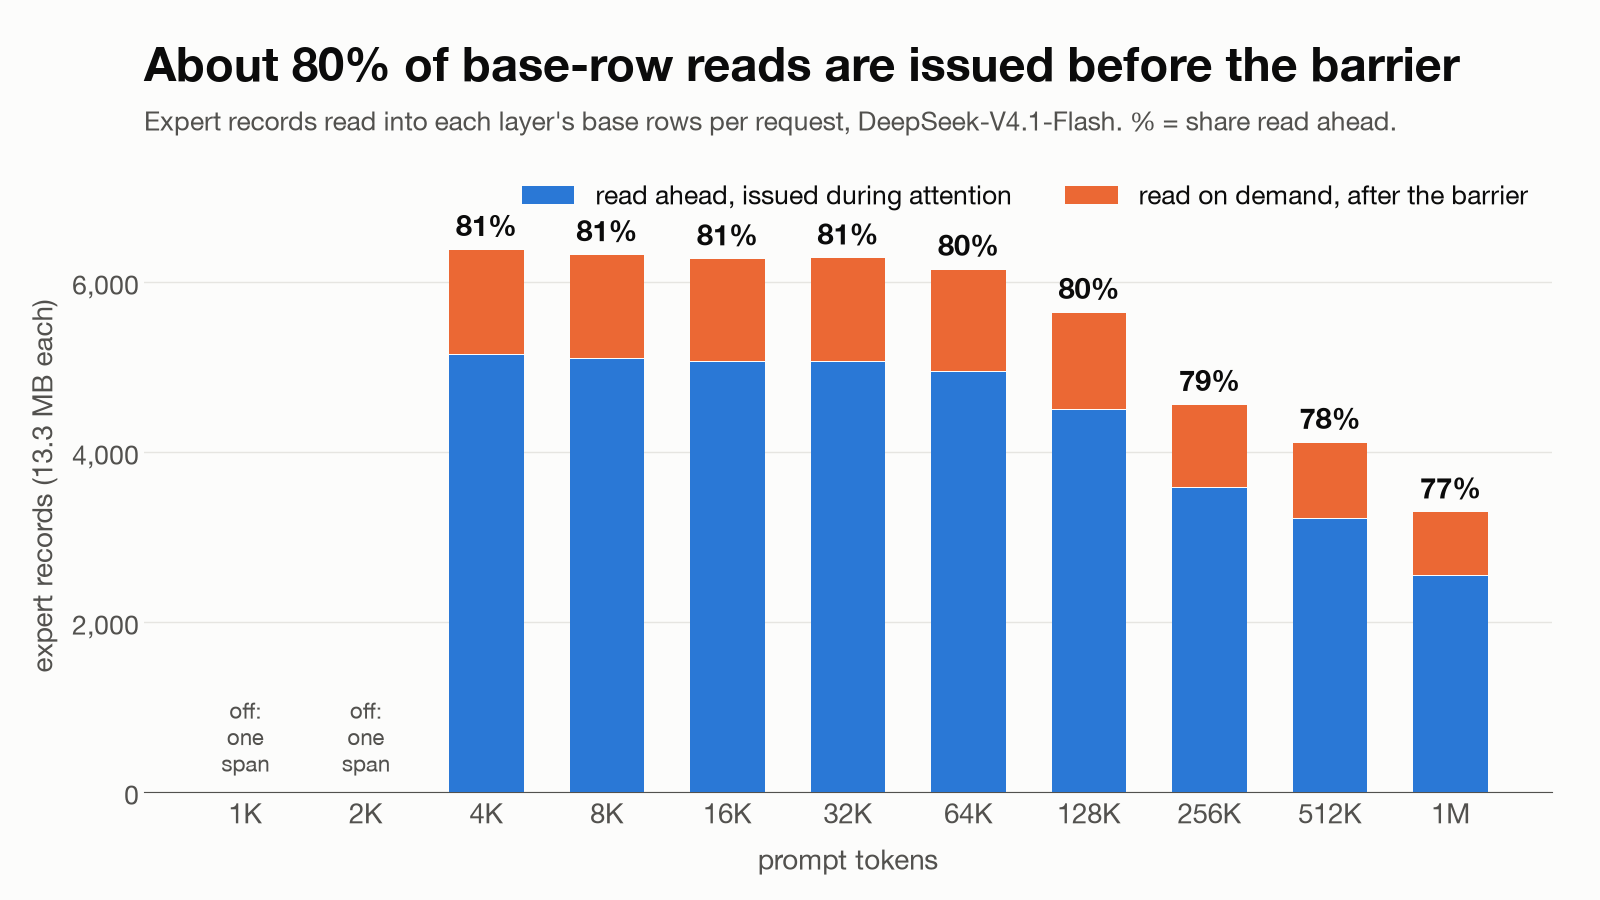
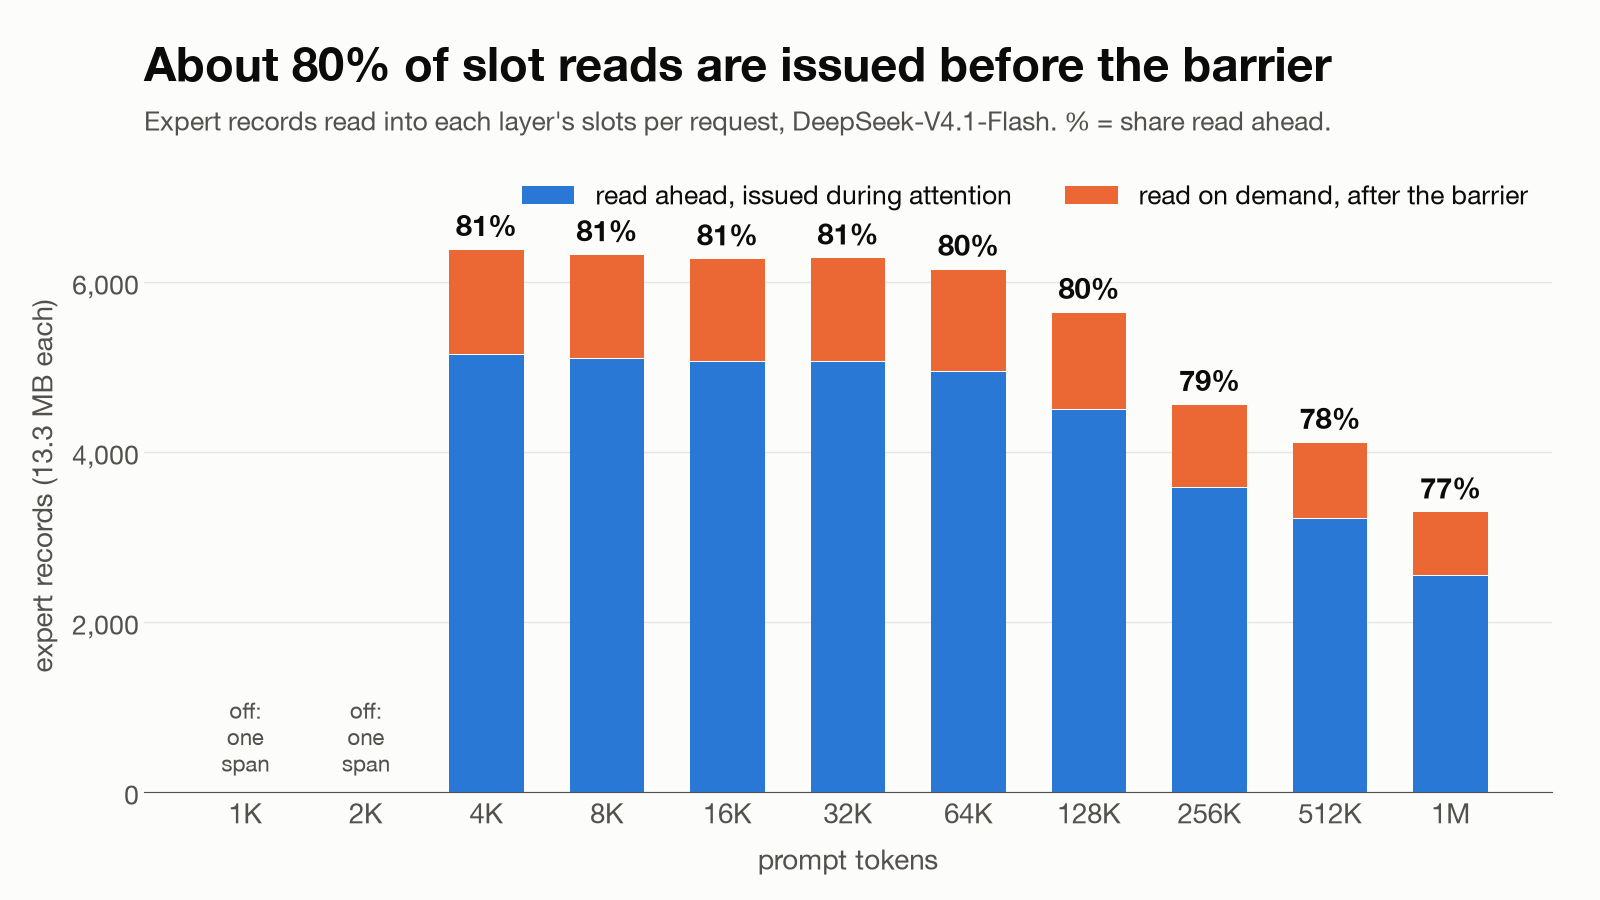
docs: lookahead write-up gets the SSD streaming background (section + diagram); slots named once

Changed region(s): [[0.2812, 0.0311, 0.9062, 0.0933], [0.3438, 0.1244, 0.875, 0.1556]]

diff --git a/docs/lookahead-predictor.md b/docs/lookahead-predictor.md
@@ -4,15 +4,23 @@
 
 DeepSeek-V4.1-Flash streams its experts from SSD. Each MoE layer's router used to wait for attention. Now it runs first, so expert reads start early. At 16K tokens, 81% of the reads that fill each layer's resident expert slots are issued before its routes are known.
 
+## How the experts stream from SSD
+
+![SSD records are read whole into per-layer expert slots in unified memory, which the GPU kernels read; the prompt pass and decode lanes show where hits and misses happen](img/lookahead-streaming.png)
+
+The model has 40 MoE layers of 384 routed experts. Each token routes to 6, plus a shared expert. The routed experts fill one 204.5 GB file: 15,360 records of 13.3 MB, 3-bit EXL3. Attention, the shared expert and the embeddings stay in memory.
+
+Each layer gets fixed expert slots, sized at startup to keep the machine 2 GiB under its 112 GiB GPU limit. At 16K: 135 per layer for the prompt, 166 for decode. Any other routed expert is read whole from SSD, uncached, at up to 13.8 GB/s. The prompt pass refills slots layer by layer, reading 206 GB at 16K. Decode reads its misses plus two records ahead, once per verify step of about 5.3 tokens.
+
 ## Score each layer's router before its attention
 
-The predictor needs no training. In the prompt pass, before layer L's attention, layer L's router scores the layer's input, normed with the MoE's RMSNorm weight. That approximates the MoE input before attention's update. Each token's top 6 experts are counted across the prompt, and the hottest are read into the layer's empty base rows, the expert slots in memory that a prompt fills from SSD.
+The predictor needs no training. In the prompt pass, before layer L's attention, layer L's router scores the layer's input, normed with the MoE's RMSNorm weight. That approximates the MoE input before attention's update. Each token's top 6 experts are counted across the prompt, and the hottest are read into the layer's empty slots.
 
 Decode looks one layer further ahead. Layer L+1's router scores layer L's MoE input, and two records start reading.
 
 ## The SSD sat idle through attention
 
-Each expert record is 13.3 MB. In the 16K profile taken before this change, the prompt read 186 GB of them. A layer could start its reads only at its routing barrier, the point where every chunk of the prompt has finished attention and the real routes are known. The SSD sat idle while attention ran, and 11.5 s of the 42.6 s prompt pass was spent waiting on reads. Moving a read earlier means guessing the expert first.
+In the 16K profile taken before this change, the prompt read 186 GB of expert records. A layer could start its reads only at its routing barrier, the point where every chunk of the prompt has finished attention and the real routes are known. The SSD sat idle while attention ran, and 11.5 s of the 42.6 s prompt pass was spent waiting on reads. Moving a read earlier means guessing the expert first.
 
 ## The barrier sorts hits from demand reads
 
@@ -27,7 +35,7 @@ The guesses only choose when reads start. The bytes a row serves are the same re
 
 ## 81% of reads issued early at 16K, 77% at 1M
 
-![Expert records read into base rows per request, split into read ahead and read on demand, from 1K to 1M prompt tokens](img/lookahead-ladder.png)
+![Expert records read into slots per request, split into read ahead and read on demand, from 1K to 1M prompt tokens](img/lookahead-ladder.png)
 
 At 16K, 5,056 records (67.3 GB) were issued ahead and 1,211 were read on demand. Prompts of 1K and 2K run as one span, so the predictor doesn't run for them.
 
@@ -35,7 +43,7 @@ Hits were 5,048 of 5,056. That rate flatters the predictor, because a 16K prompt
 
 ## Under a second per prompt, no new expert memory
 
-The prompt-pass predictor runs one router matmul per chunk, four chunks per GPU round trip. It took 0.6 to 0.75 s in the 16K profiles, with 25 MB of temporary memory per chunk (100 MB per batch). Its guesses fill base rows that are already reserved, so a wrong guess costs only bandwidth.
+The prompt-pass predictor runs one router matmul per chunk, four chunks per GPU round trip. It took 0.6 to 0.75 s in the 16K profiles, with 25 MB of temporary memory per chunk (100 MB per batch). Its guesses fill slots that are already reserved, so a wrong guess costs only bandwidth.
 
 Decode reserves 54.5 MB of read buffers, room for four records, twice its two-record budget. The host picks those records from at most 64 candidates: 8 verify tokens, top 8 experts each.
 
@@ -45,6 +53,10 @@ The predictor is Eliseev & Mazur, [arXiv:2312.17238](https://arxiv.org/abs/2312.
 
 Code at 29c3d43:
 
+- `src/sdk_ext/expert/io.zig:216`: the uncached SSD reader
+- `src/sdk_ext/expert/policy.zig:332`: slot residency per layer
+- `src/deepseek_v41_bill.zig:455`: the memory bill that sizes the slots
+- `expert-manifest-v2.json` (model directory): record geometry
 - `src/deepseek_v41_graph.zig:2078`: the predictor
 - `src/deepseek_v41_model.zig:713`: the prompt-pass driver, called at :836
 - `src/sdk_ext/expert/stream.zig:746,1029,1094`: barrier, issue, land
@@ -55,4 +67,5 @@ Code at 29c3d43:
 Receipts (one native served request per row):
 
 - Ladder: `reports/dsv41-f39-tcq3-runtime/mlx-serve-phase2/cx11-runs/cx2-20261006-214409/rows.txt`
+- Slots, bill target and the 206 GB prompt read: `mlx-serve-phase2/ex-runs/ex-20261006-044335/headline.log`
 - Before profile and release step: `mlx-serve-phase2/p1-cross-layer-read-ahead-20260930.md` and `integration-lane-note-20260930.md`
